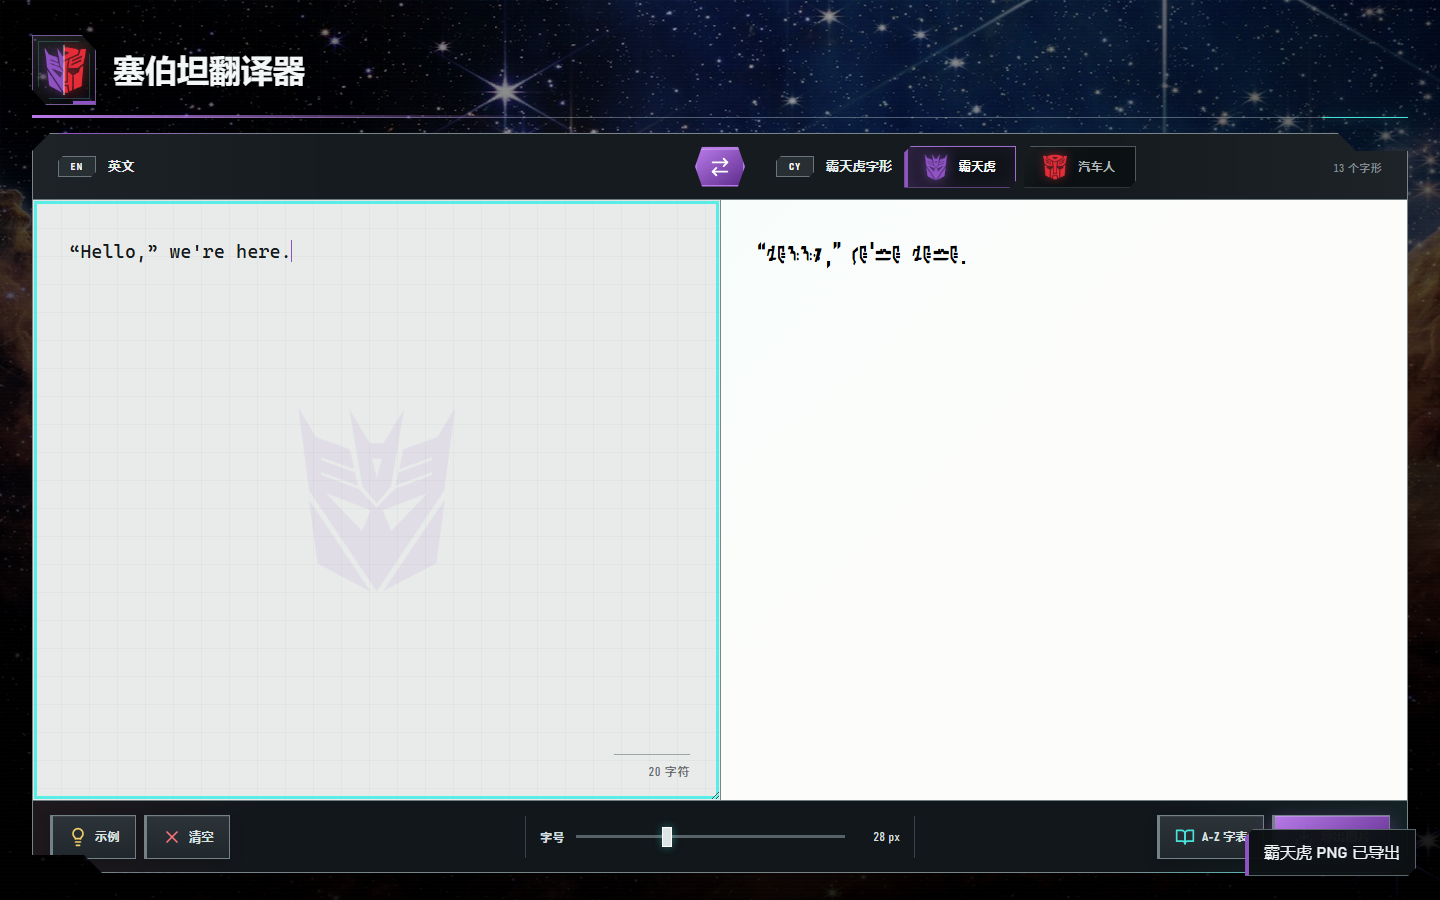
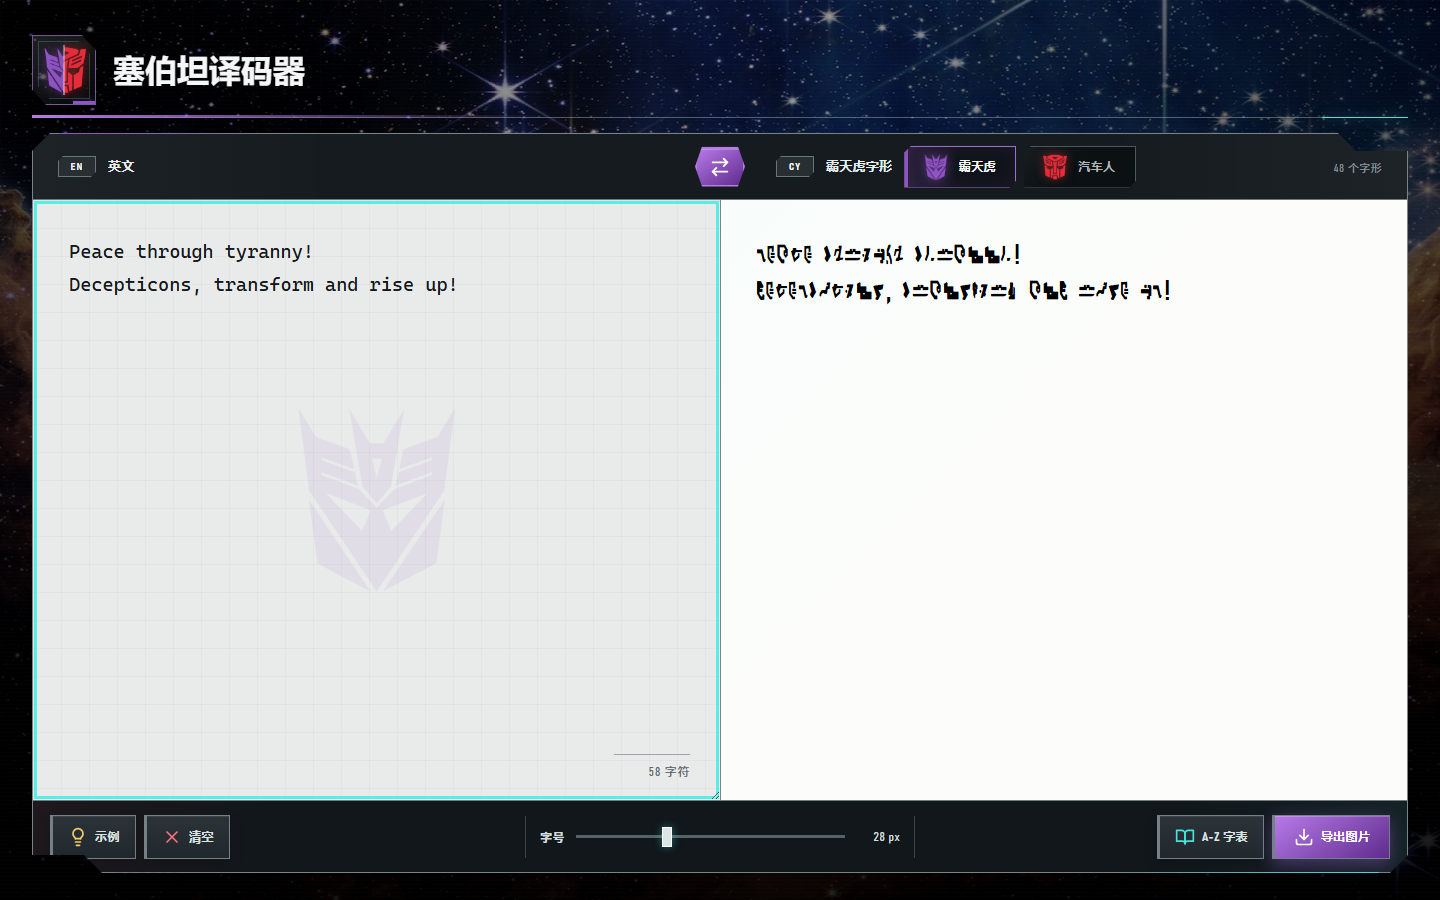
feat:添加阵营示例

diff --git a/README.md b/README.md
@@ -24,14 +24,14 @@
 
 宽屏下采用双栏工作台：左边输入英文，右边实时生成塞伯坦字形。翻译、调字号、查字表和导出一气呵成，不必在控制面板里曲速航行。
 
-![塞伯坦译码器电脑端界面：英文到霸天虎字形的双栏翻译工作台](./docs/screenshots/desktop.png)
+![塞伯坦译码器电脑端界面：霸天虎标志性语段及其塞伯坦字形译文](./docs/screenshots/desktop.png)
 
 ### 手机端
 
 在手机上，输入区与译文区会自动纵向排列；阵营选择、字号调节和导出功能全部保留。装进主屏幕后，它就是一台随身塞伯坦终端。
 
 <p align="center">
-	<img src="./docs/screenshots/mobile.png" width="45%" alt="塞伯坦译码器手机端界面：响应式英文到霸天虎字形翻译工作台">
+	<img src="./docs/screenshots/mobile.png" width="45%" alt="塞伯坦译码器手机端界面：响应式霸天虎示例翻译工作台">
 </p>
 
 ## 能做什么
@@ -39,6 +39,7 @@
 | 能力 | 说明 |
 | --- | --- |
 | **双阵营字形** | 在汽车人和霸天虎字母体系间即时切换，预览、字表与导出同步更新 |
+| **阵营示例** | “示例”会载入当前阵营的两行标志性语段，并完整保留标点和换行；反向模式会生成对应示例图并立即回译 |
 | **英文 → 塞伯坦文** | 输入即翻译；空格、标点、换行和不支持的字符会按原顺序保留 |
 | **塞伯坦文 → 英文** | 上传、拖放或粘贴 PNG、JPEG、WebP、GIF 图片，在浏览器中完成本地识别 |
 | **无损回译** | 应用导出的 PNG 带有可校验载荷，重新导入时可优先精确恢复原文 |
@@ -50,8 +51,10 @@
 ## 三步发出讯息
 
 1. **选择阵营**：点击“霸天虎”或“汽车人”，让终端换上对应字形。
-2. **开始翻译**：输入英文，或点击中间的方向按钮，切换到图片识别模式。
+2. **开始翻译**：输入英文，或点击“示例”载入当前阵营的标志性语段；点击中间的方向按钮可切换到图片识别模式。
 3. **带走结果**：调整字号后导出 PNG；反向模式下则可一键复制识别出的英文。
+
+在图片识别模式中点击“示例”，应用会现场生成当前阵营的塞伯坦文字图片并完成本地回译；上传、拖放和粘贴自有图片的入口仍保留在输入区。
 
 图片识别时，建议使用正视、清晰、对比度较高的字形图片。模糊、透视严重或背景复杂的图片可能产生 `?`，终端不是读心术机器，这一点汽车人和霸天虎难得意见一致。
 
